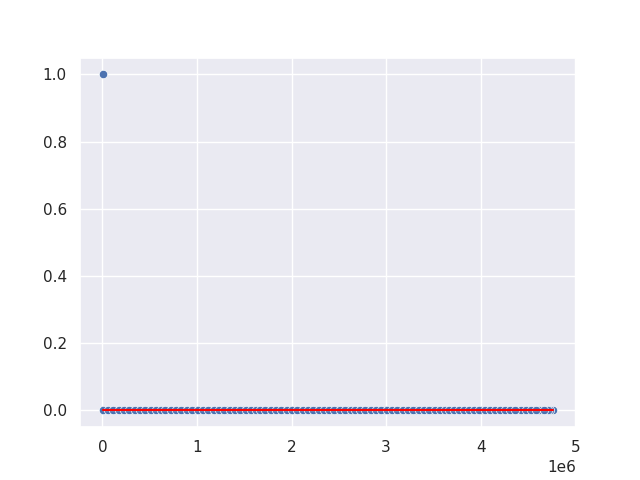
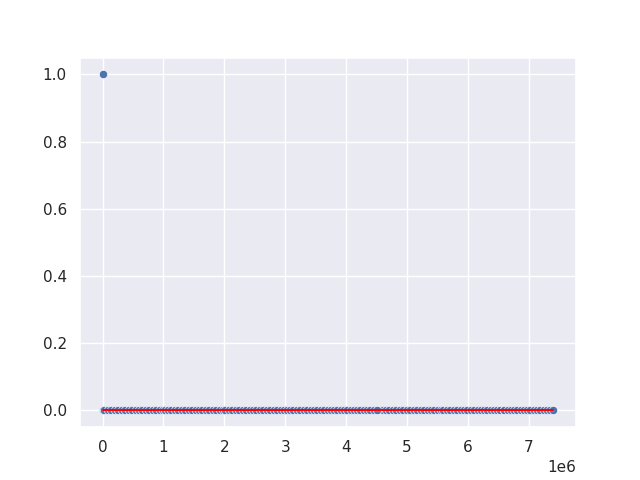
add: tatlin warmup plots, more warpup

diff --git a/src/monitor/mtatlin.rs b/src/monitor/mtatlin.rs
@@ -12,7 +12,7 @@ use tokiobench::rt;
 use tokiobench::watcher;
 
 const NUM_THREADS: usize = 12;
-const NUM_WARMUP: usize = 5;
+const NUM_WARMUP: usize = 30;
 
 fn run_sampling(name: &str, nspawn: usize, nspawner: usize) {
     let mut leaf_handles = (0..nspawner)
